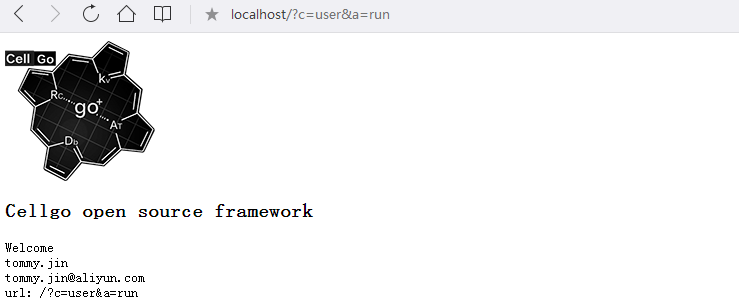
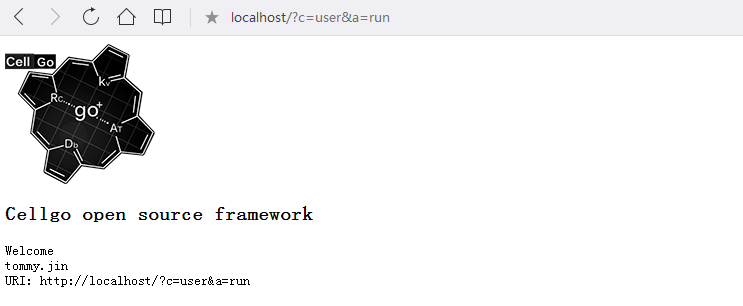
Net type commit && Update example

Changed region(s): [[0.0, 0.0, 1.0, 0.6176], [0.0, 0.7941, 0.3424, 0.9706], [0.0, 0.6471, 0.4357, 0.7353]]

diff --git a/example/template/index.html b/example/template/index.html
@@ -10,8 +10,7 @@
 <pre id="PHP" class="prettyprint">
 Welcome
 {{.Username}}
-{{.Email}}
-url: /?c=user&a=run
+URI: {{.URI}}
 </pre>
 </body>
 </html>

diff --git a/net.go b/net.go
@@ -90,6 +90,45 @@ func (input *CellInput) Reset(ni *Netinfo) {
 	input.RequestBody = []byte{}
 }
 
+// Protocol returns request protocol name, such as HTTP/1.1 .
+func (input *CellInput) Protocol() string {
+	return input.Netinfo.Request.Proto
+}
+
+// URI returns full request url with query string, fragment.
+func (input *CellInput) URI() string {
+	return input.Netinfo.Request.RequestURI
+}
+
+// URL returns request url path (without query string, fragment).
+func (input *CellInput) URL() string {
+	return input.Netinfo.Request.URL.Path
+}
+
+// Site returns base site url as scheme://domain type.
+func (input *CellInput) Site() string {
+	return input.Scheme() + "://" + input.Domain()
+}
+
+// Domain returns host name.
+// Alias of Host method.
+func (input *CellInput) Domain() string {
+	return input.Host()
+}
+
+// Host returns host name.
+// if no host info in request, return localhost.
+func (input *CellInput) Host() string {
+	if input.Netinfo.Request.Host != "" {
+		hostParts := strings.Split(input.Netinfo.Request.Host, ":")
+		if len(hostParts) > 0 {
+			return hostParts[0]
+		}
+		return input.Netinfo.Request.Host
+	}
+	return "localhost"
+}
+
 // Scheme returns request scheme as "http" or "https".
 func (input *CellInput) Scheme() string {
 	if input.Netinfo.Request.URL.Scheme != "" {

diff --git a/example/controllers/userController.go b/example/controllers/userController.go
@@ -11,11 +11,15 @@ type UserController struct {
 func (this *UserController) Run() {
 	this.Data["Username"] = "tommy.jin"
 	this.Data["Email"] = "tommy.jin@aliyun.com"
+	this.Data["URI"] = this.Ni.Input.Site() + this.Ni.Input.URI()
 	this.TplName = "index.html"
 }
 
 func (this *UserController) Add() {
-	this.Data["Username"] = "tommy.jin"
-	this.Data["Email"] = "tommy.jin@aliyun.com"
+	username := this.Ni.Input.Param("username")
+	email := this.Ni.Input.Param("email")
+	this.Data["Username"] = username
+	this.Data["Email"] = email
+	this.Data["URI"] = this.Ni.Input.Site() + this.Ni.Input.URI()
 	this.TplName = "index.html"
 }
